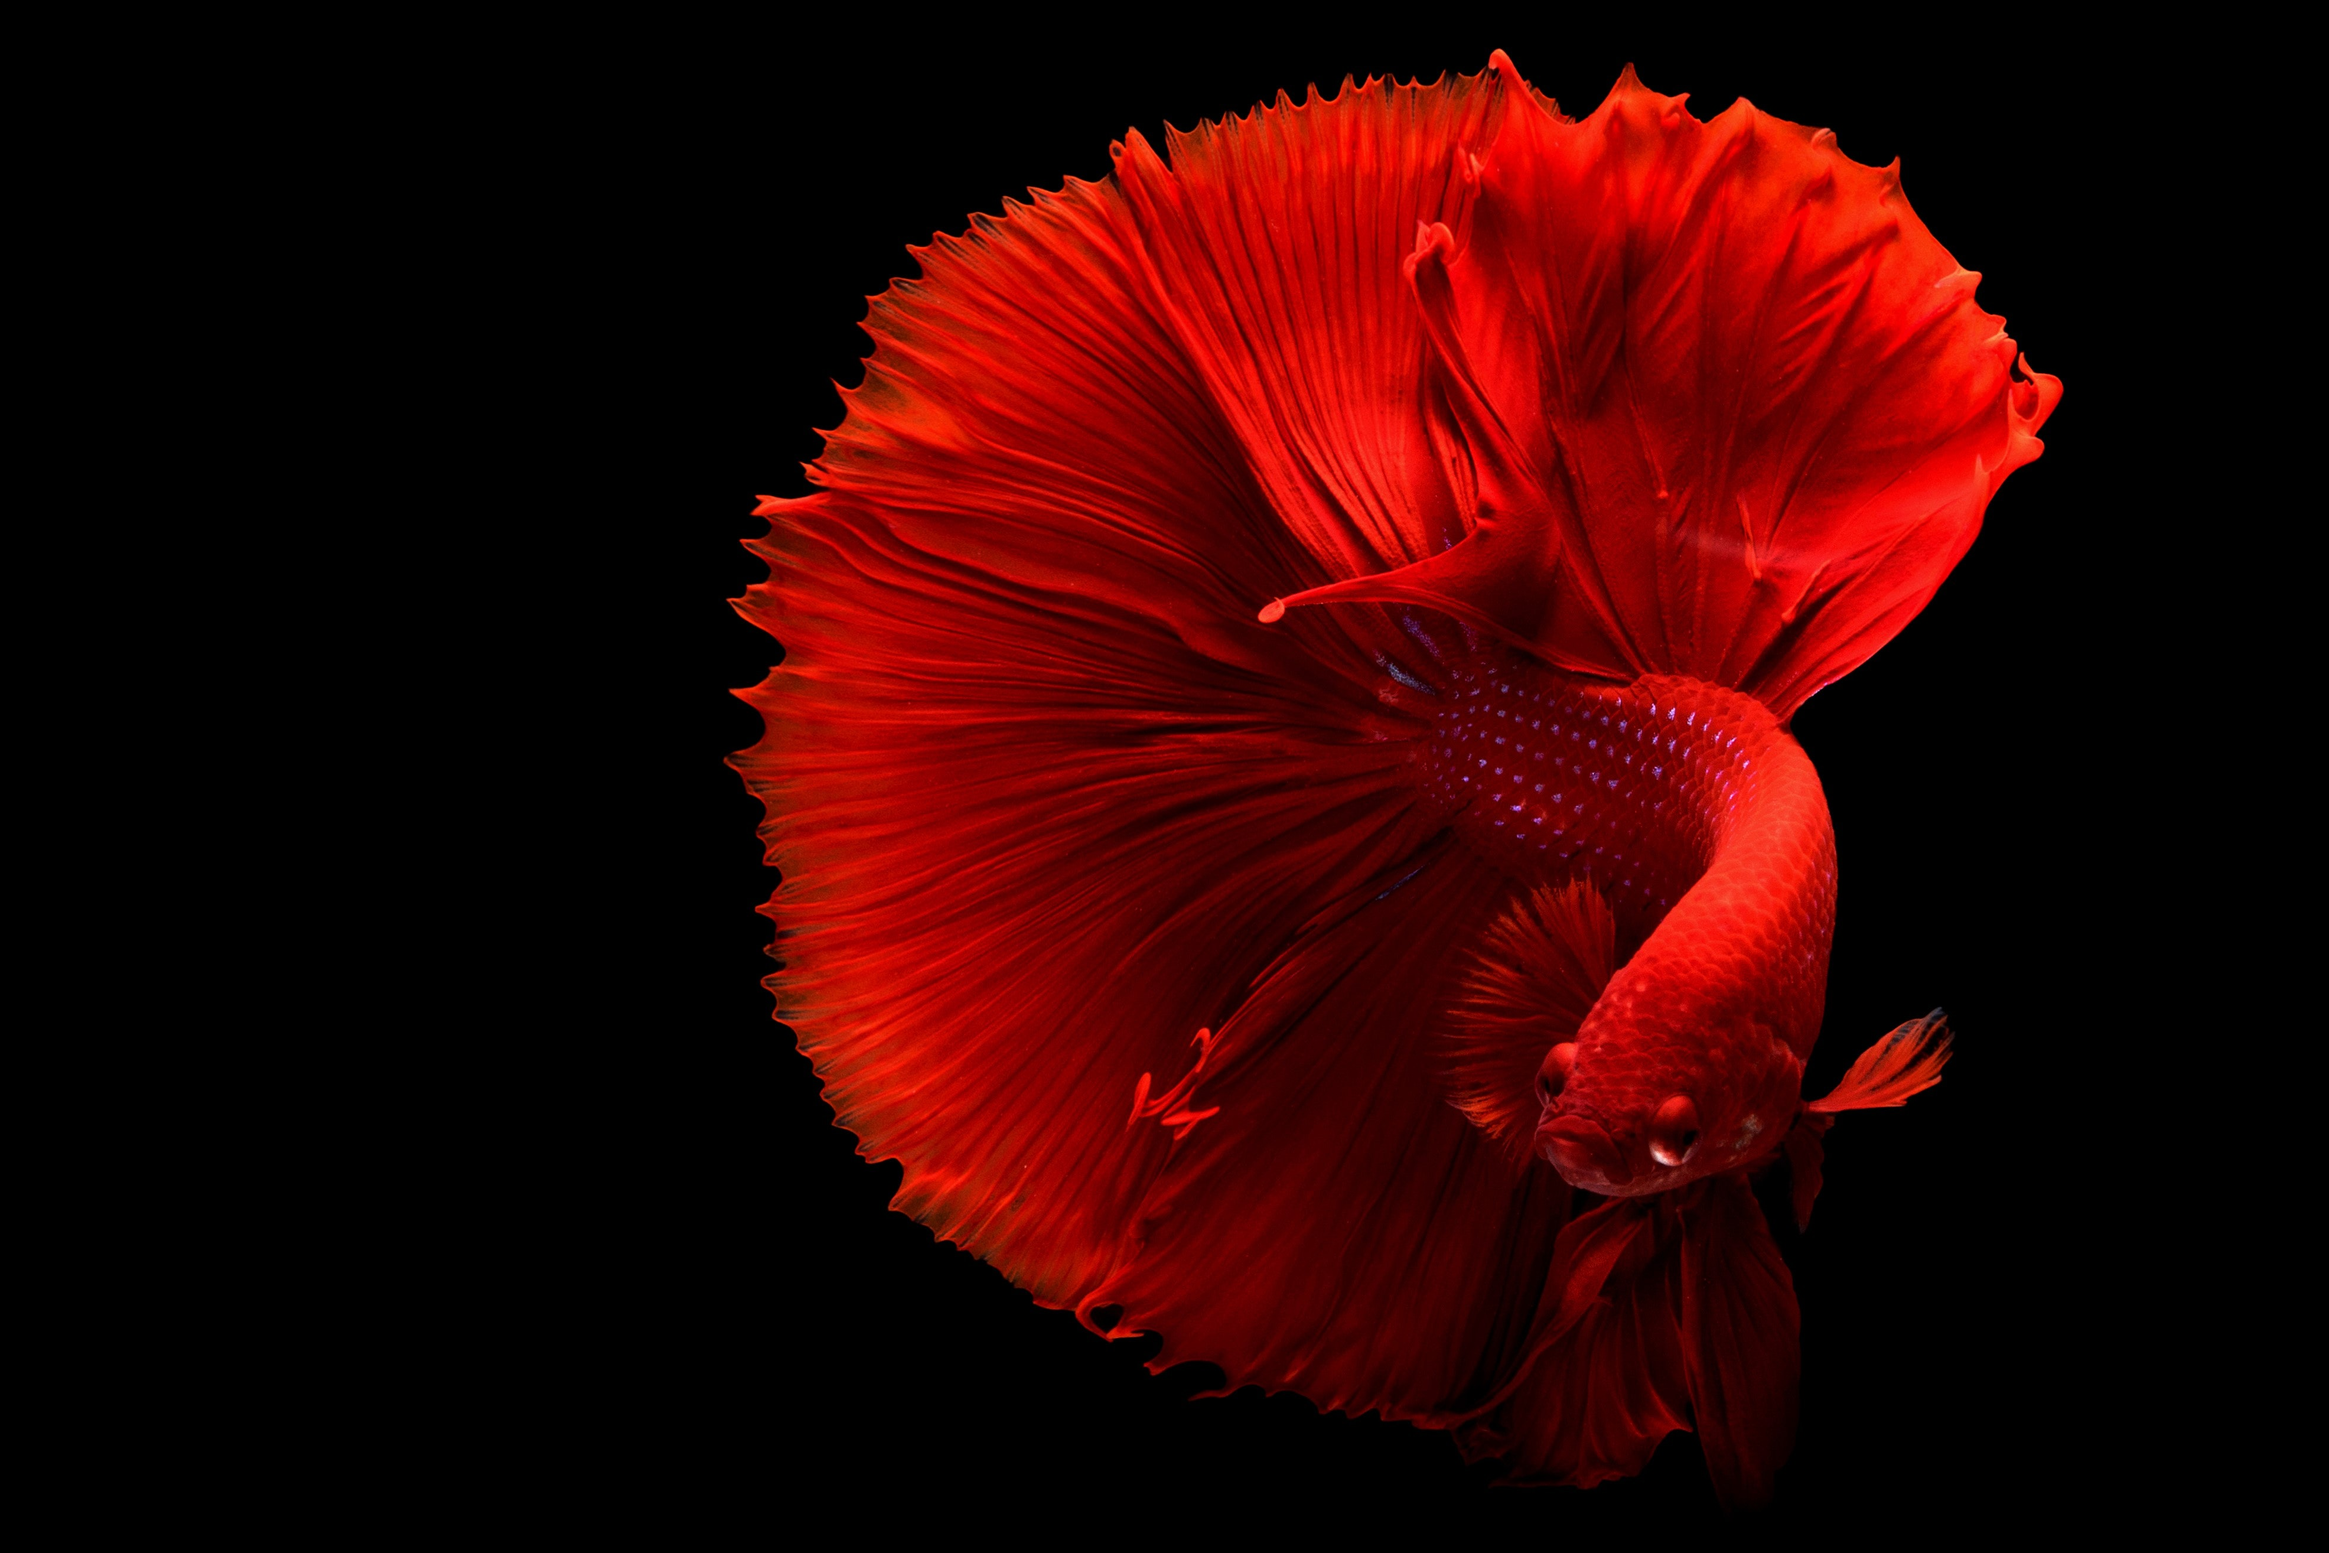
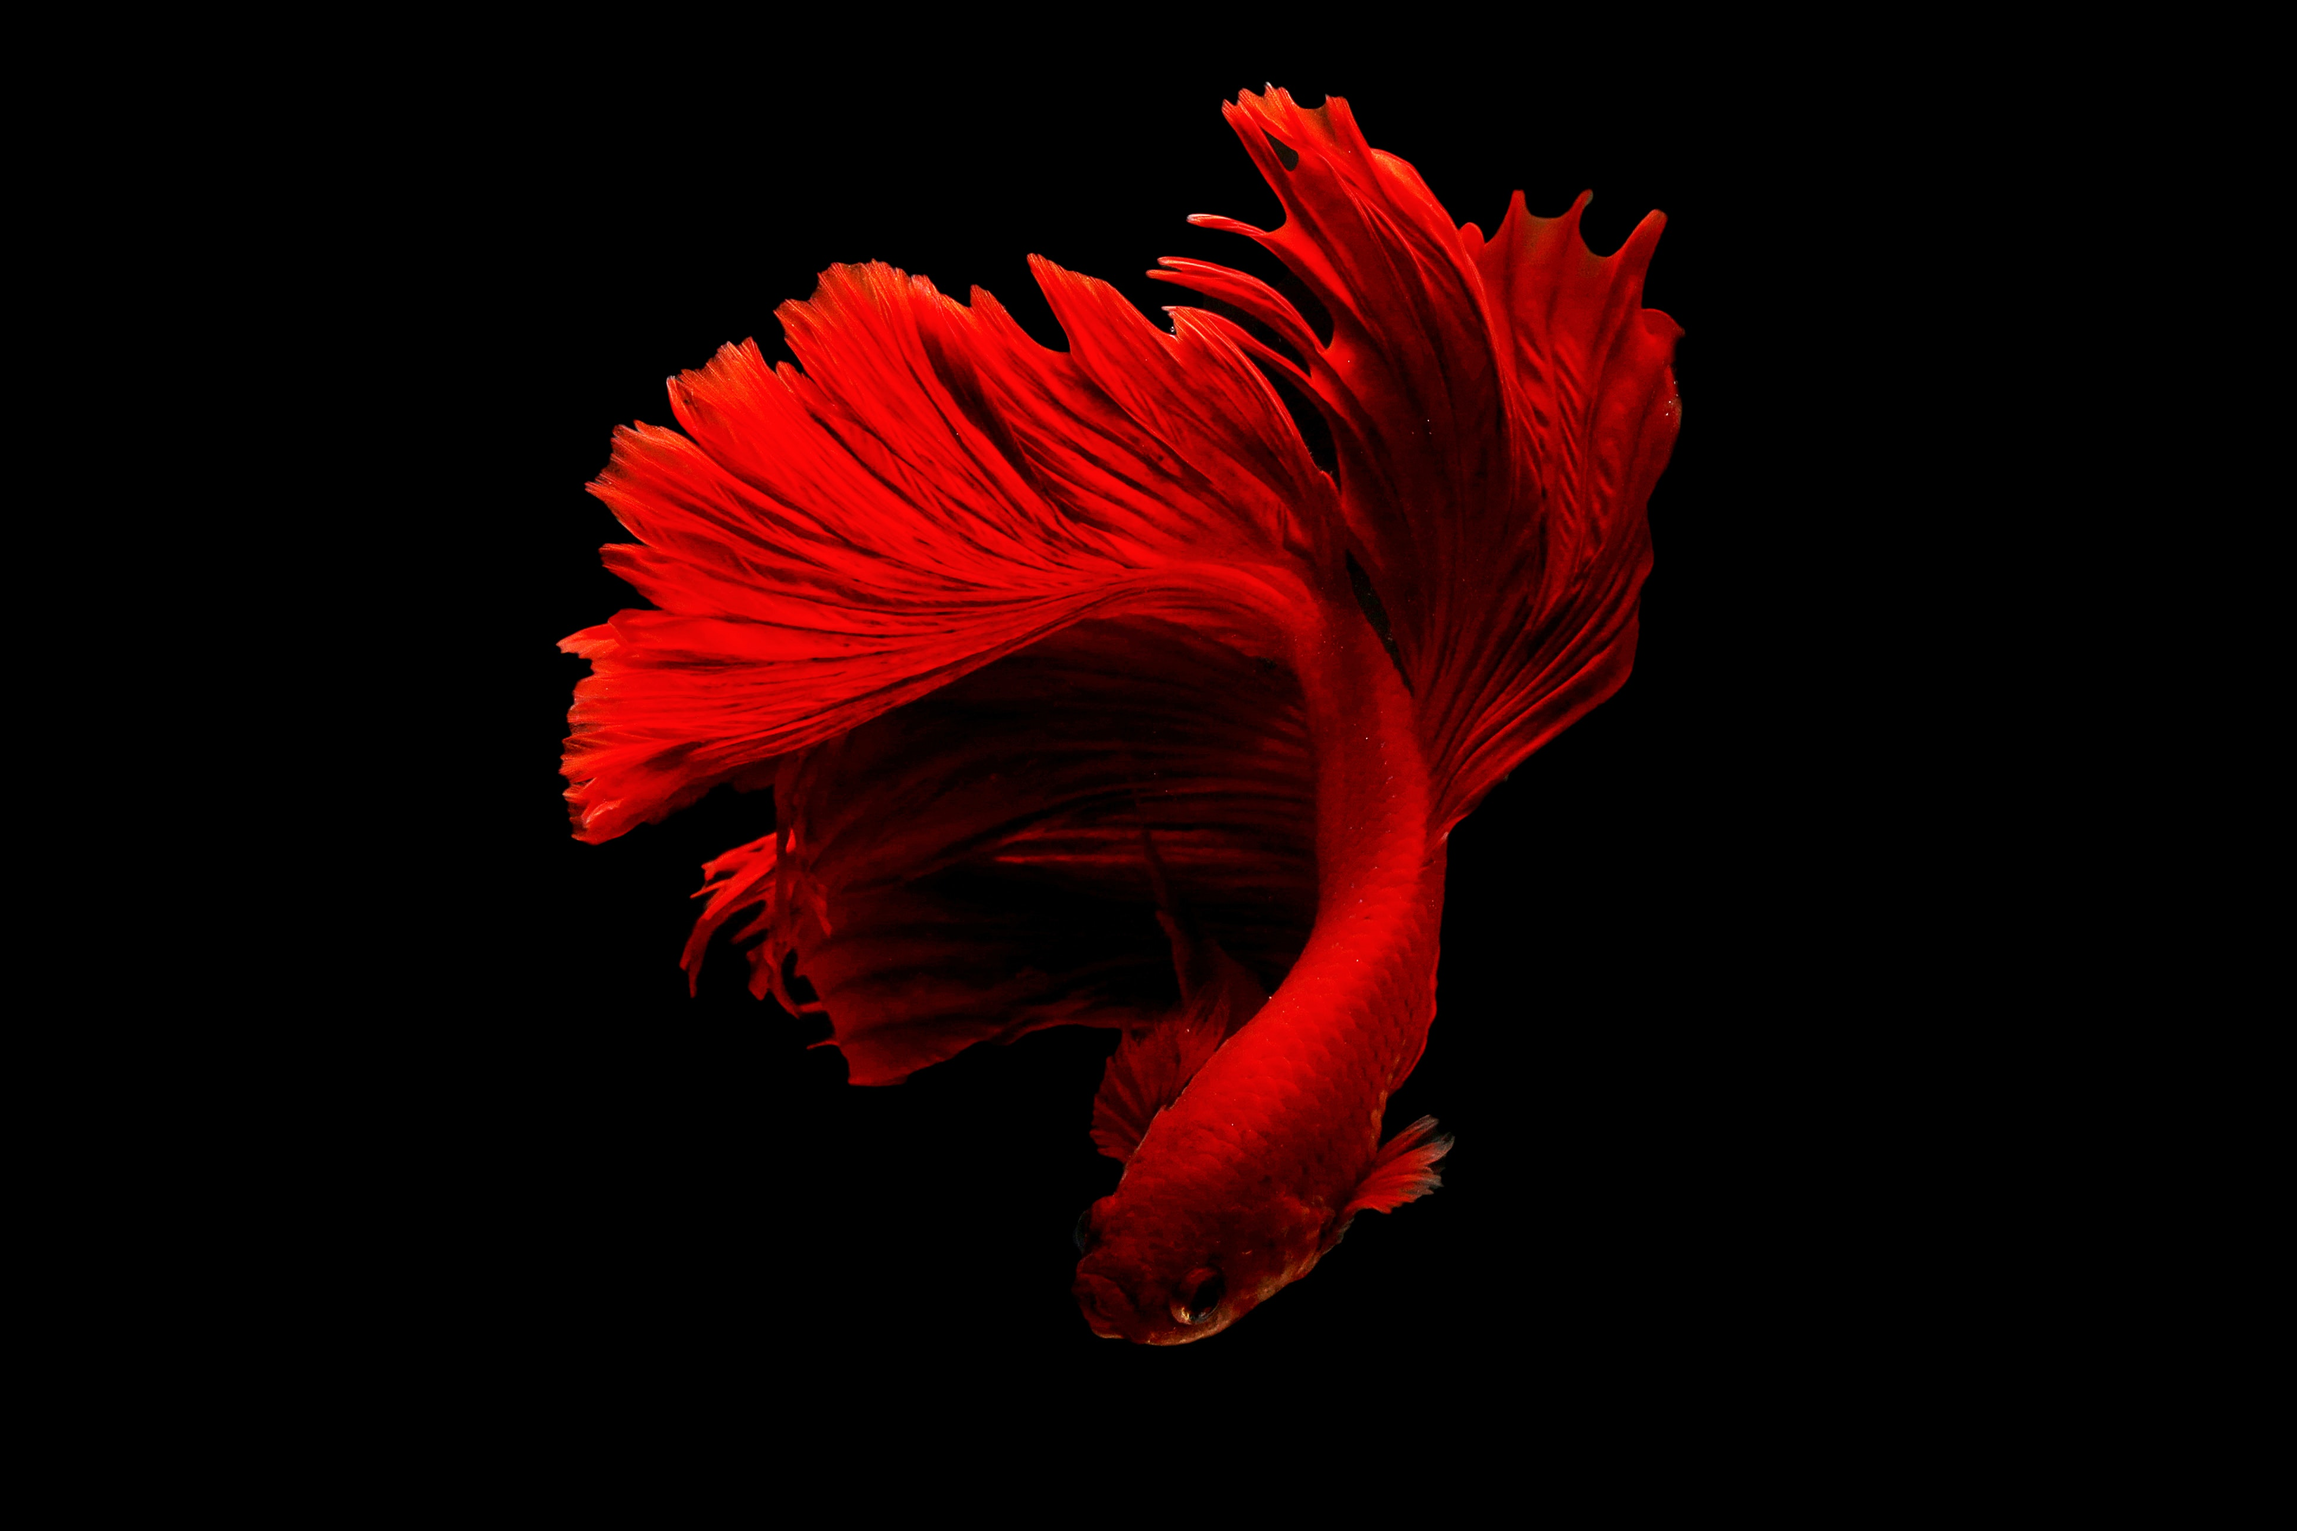
brave

diff --git a/src/components/Hero.jsx b/src/components/Hero.jsx
@@ -2,7 +2,7 @@ import React from "react";
 import styled from "styled-components";
 
 const Section = styled.section`
-  background: url(${({ image }) => image && image}) center no-repeat;
+  background: url(${({ image }) => image && image}) center;
   height: 100vh;
   display: flex;
   justify-content: flex-start;

diff --git a/src/pages/Page.js b/src/pages/Page.js
@@ -1,7 +1,7 @@
 import React from "react";
 import Header from "../components/Header";
 import Hero from "../components/Hero";
-import Image from "../images/img5.jpg";
+import Image from "../images/img3.jpg";
 import { motion } from "framer-motion";
 import { animationOne } from "../animations";
 
